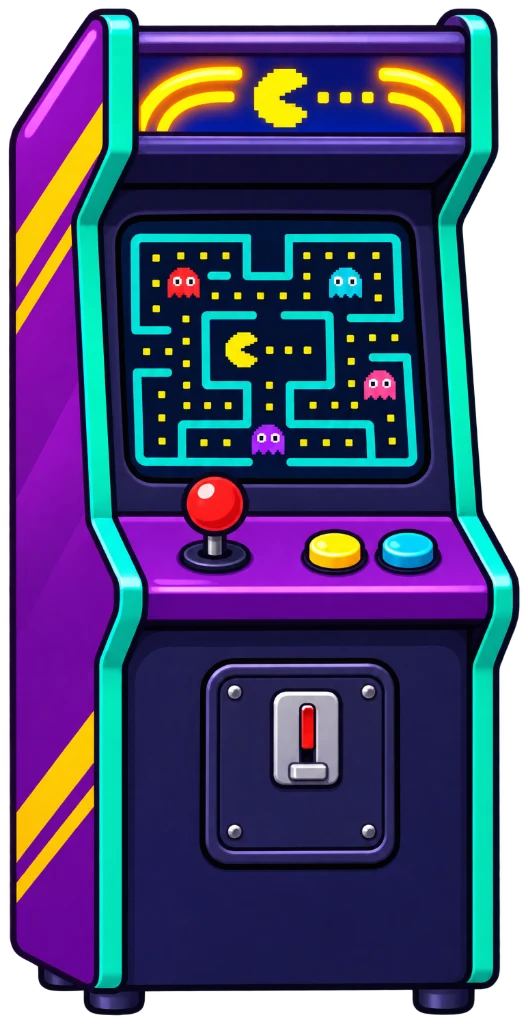
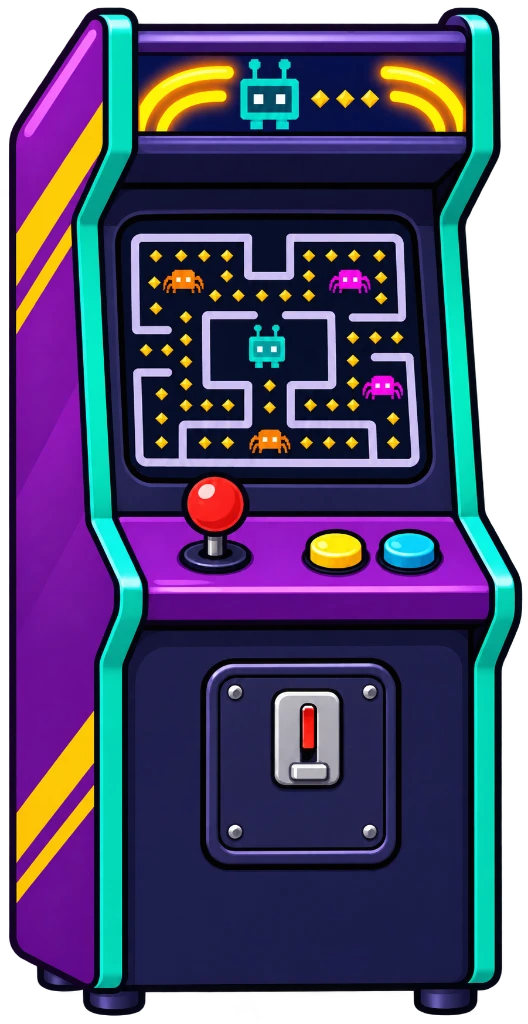
Give maze cabinet robot characters and share a centered continuously scrolling platform game

diff --git a/anim/home-retro.css b/anim/home-retro.css
@@ -11,7 +11,7 @@
 /* the game plays inside the TV's screen: rounded like a tube, with faint scanlines and a soft glow on top */
 #home-art[data-scene=retro] .r-tv { overflow: hidden; border-radius: 9% / 10%; pointer-events: none; }
 #home-art[data-scene=retro] .r-tv > i { position: absolute; inset: 0; display: block; }
-#home-art[data-scene=retro] .r-game { background-repeat: no-repeat; background-size: 400% 100%; image-rendering: pixelated; }
+#home-art[data-scene=retro] .r-game { position: absolute; inset: 0; width: 100%; height: 100%; display: block; image-rendering: pixelated; }
 #home-art[data-scene=retro] .r-glass { background: repeating-linear-gradient(to bottom, rgba(0,0,0,.14) 0 1px, transparent 1px 3px), radial-gradient(ellipse at 40% 35%, rgba(255,255,255,.16), transparent 60%), radial-gradient(ellipse at 50% 50%, transparent 55%, rgba(0,20,0,.38)); }
 #home-art[data-scene=retro] .r-static { background: repeating-linear-gradient(95deg, #fff 0 2px, #777 2px 4px, #ccc 4px 5px, #333 5px 8px); opacity: 0; }
 #home-art[data-scene=retro] .r-tv[data-static] .r-static { opacity: .85; animation: rStatic .12s steps(2, end) infinite; }
